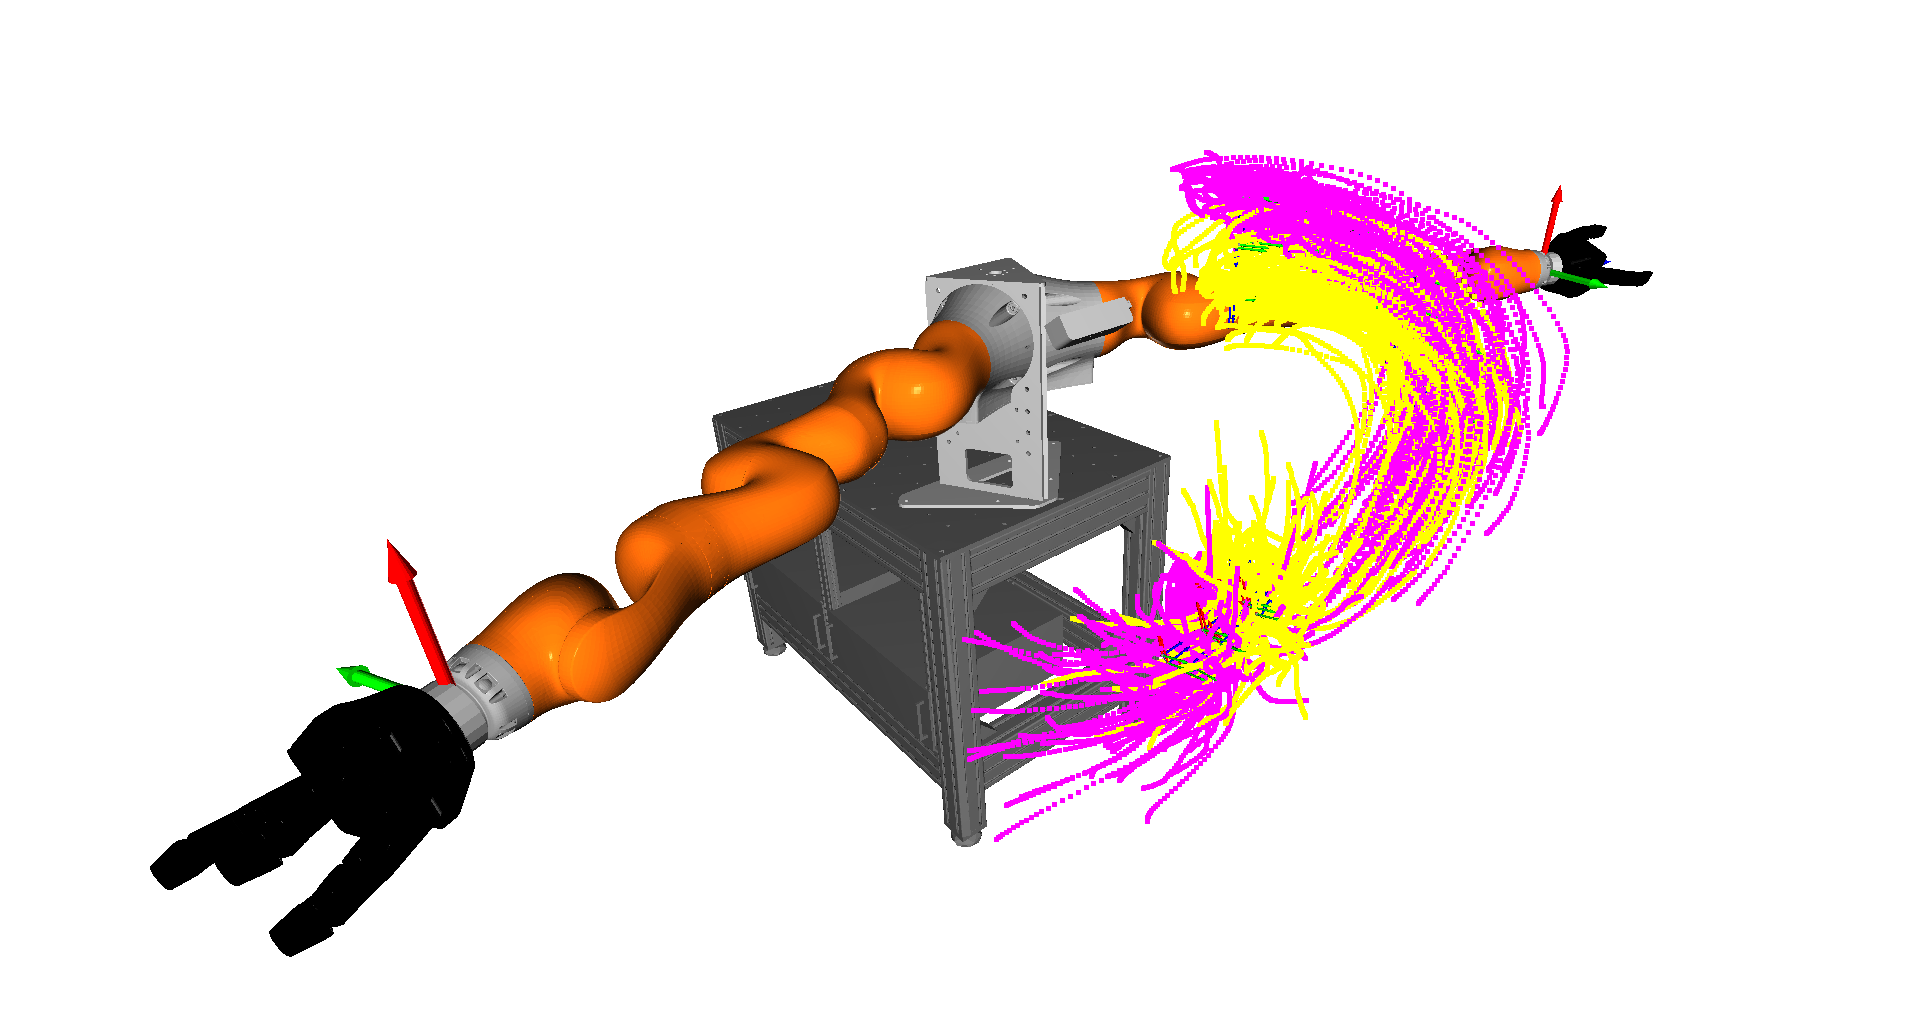
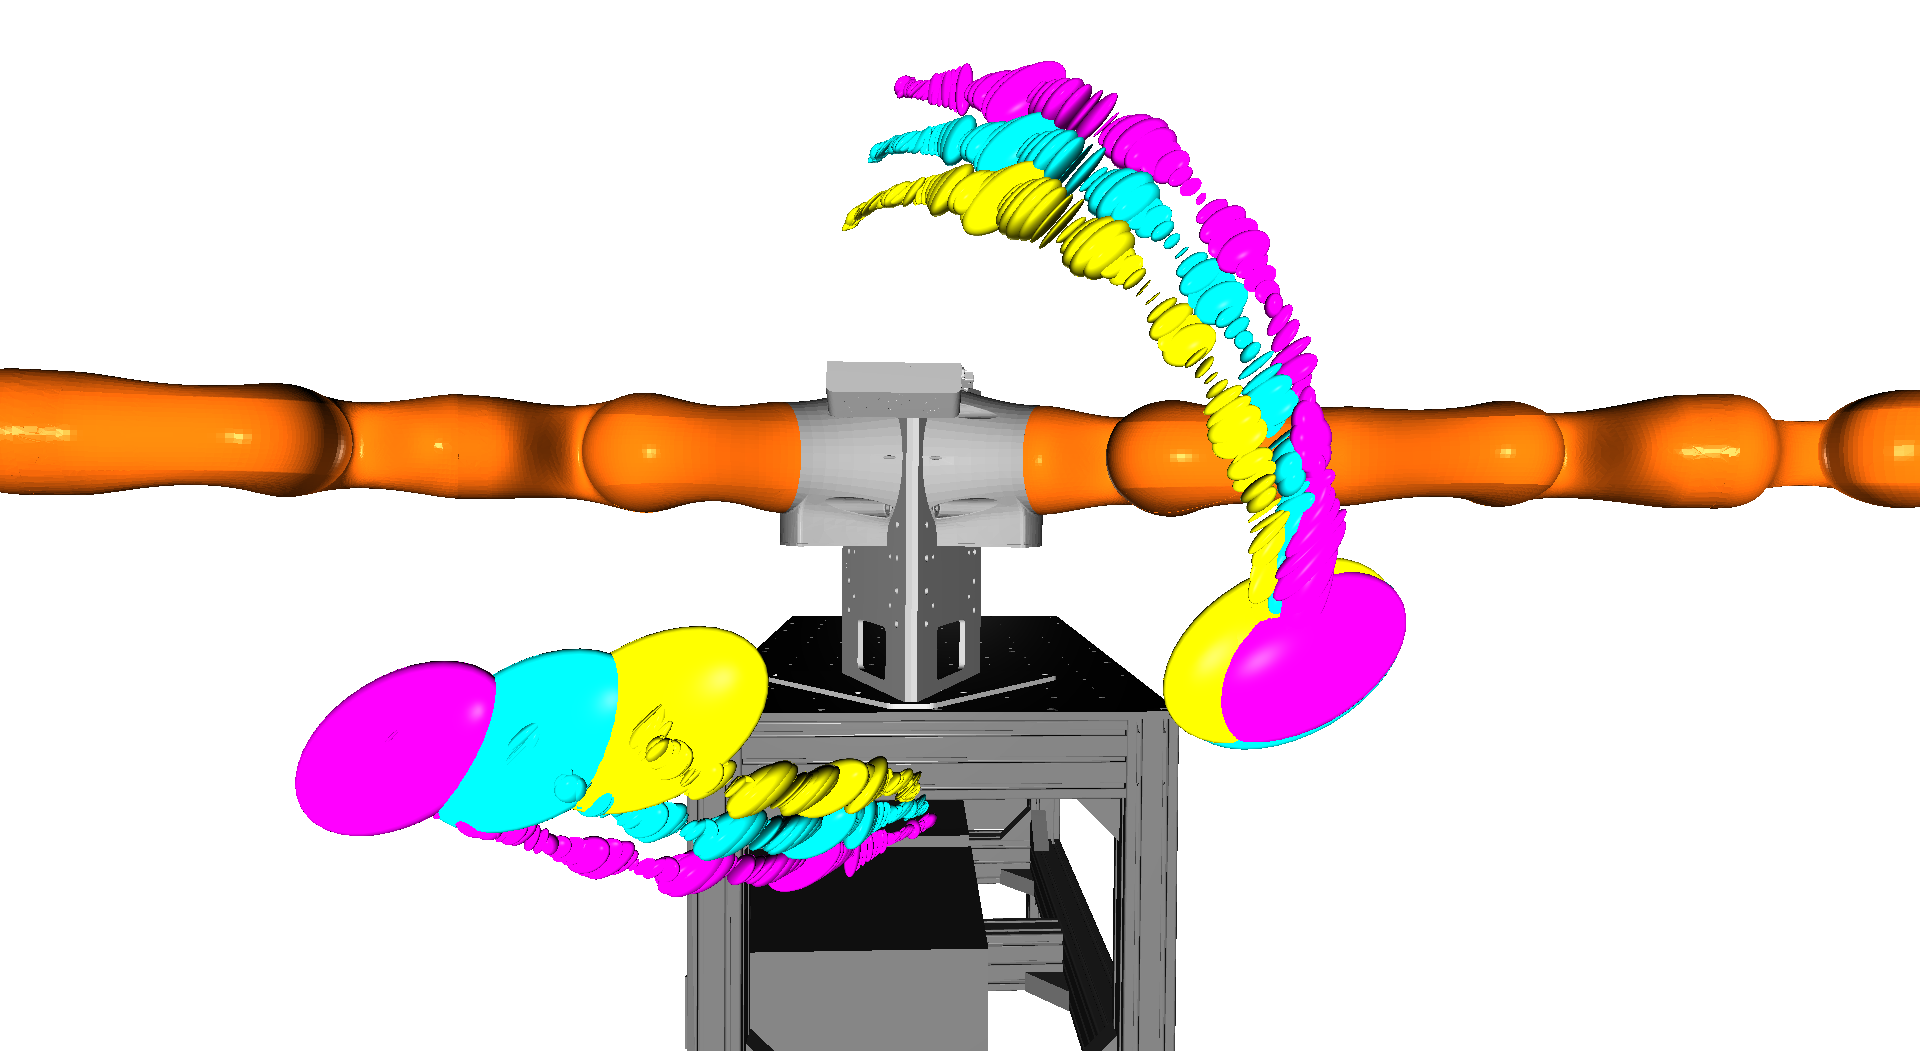
Plot error ellipsoids

diff --git a/scripts/vis_contextual_promp_distribution.py b/scripts/vis_contextual_promp_distribution.py
@@ -3,9 +3,9 @@ import pytransform3d.visualizer as pv
 from pytransform3d.urdf import UrdfTransformManager
 from gmr import GMM
 
-from movement_primitives.visualization import plot_pointcloud, ToggleGeometry
 from movement_primitives.data import load_kuka_dataset, transpose_dataset, smooth_dual_arm_trajectories_pq
 from movement_primitives.promp import ProMP
+from movement_primitives.visualization import to_ellipsoid
 
 
 def generate_training_data(
@@ -68,40 +68,21 @@ for panel_width, color, idx in zip([0.3, 0.4, 0.5], ([1.0, 1.0, 0.0], [0.0, 1.0,
     promp.from_weight_distribution(
         conditional_weight_distribution.mean,
         conditional_weight_distribution.covariance)
-    samples = promp.sample_trajectories(T_query, n_validation_samples, random_state)
 
-    # mean and standard deviation in state space
+    # mean and covariance in state space
     mean = promp.mean_trajectory(T_query)
-    std = np.sqrt(promp.var_trajectory(T_query))
+    cov = promp.cov_trajectory(T_query).reshape(
+        mean.shape[0], mean.shape[1], mean.shape[1], mean.shape[0])
 
-    c = [0, 0, 0]
-    c[idx] = 1
-    fig.plot_trajectory(mean[:, :7], s=0.05, c=tuple(c))
-    fig.plot_trajectory(mean[:, 7:], s=0.05, c=tuple(c))
-    #fig.plot_trajectory(mean[:, :7] + std[:, :7], s=0.02, c=tuple(c))
-    #fig.plot_trajectory(mean[:, 7:] + std[:, :7], s=0.02, c=tuple(c))
-    #fig.plot_trajectory(mean[:, :7] - std[:, :7], s=0.02, c=tuple(c))
-    #fig.plot_trajectory(mean[:, 7:] - std[:, :7], s=0.02, c=tuple(c))
-
-    pcl_points = []
-    distances = []
-    stds = []
-    for P in samples:
-        # uncomment to check orientations
-        #left = fig.plot_trajectory(P=P[:, :7], s=0.02)
-        #right = fig.plot_trajectory(P=P[:, 7:], s=0.02)
-        pcl_points.extend(P[:, :3])
-        pcl_points.extend(P[:, 7:10])
-
-        ee_distances = np.linalg.norm(P[:, :3] - P[:, 7:10], axis=1)
-        distances.append(np.mean(ee_distances))
-        stds.append(np.std(ee_distances))
-    print("Mean average distance of end-effectors = %.2f, mean std. dev. = %.3f"
-          % (np.mean(distances), np.mean(stds)))
-
-    pcl = plot_pointcloud(fig, pcl_points, color)
-    key = ord(str((idx + 1) % 10))
-    fig.visualizer.register_key_action_callback(key, ToggleGeometry(fig, pcl))
+    for t in range(0, len(mean), 1):
+        p_left = mean[t, :3]
+        p_right = mean[t, 7:10]
+        cov_left = cov[t, 7:10, 7:10, t]
+        cov_right = cov[t, 7:10, 7:10, t]
+        ellipsoid2origin, radii = to_ellipsoid(p_left, cov_left)
+        fig.plot_ellipsoid(A2B=ellipsoid2origin, radii=0.5 * radii, c=color)
+        ellipsoid2origin, radii = to_ellipsoid(p_right, cov_right)
+        fig.plot_ellipsoid(A2B=ellipsoid2origin, radii=0.5 * radii, c=color)
 
 if plot_training_data:
     for P in Ps:

diff --git a/movement_primitives/visualization.py b/movement_primitives/visualization.py
@@ -1,5 +1,7 @@
 import numpy as np
 import open3d as o3d
+import scipy as sp
+import pytransform3d.transformations as pt
 
 
 def plot_pointcloud(fig, pcl_points, color, uniform_down_sample=1):
@@ -27,3 +29,31 @@ class ToggleGeometry:
         elif not self.show and not modifier:
             vis.add_geometry(self.geometry, False)
         return True
+
+
+def to_ellipsoid(mean, cov):
+    """Compute error ellipsoid.
+
+    An error ellipsoid shows equiprobable points.
+
+    Parameters
+    ----------
+    mean : array-like, shape (3,)
+        Mean of distribution
+
+    cov : array-like, shape (3, 3)
+        Covariance of distribution
+
+    Returns
+    -------
+    ellipsoid2origin : array, shape (4, 4)
+        Ellipsoid frame in world frame
+
+    radii : array, shape (3,)
+        Radii of ellipsoid
+    """
+    radii, R = sp.linalg.eigh(cov)
+    if np.linalg.det(R) < 0:  # undo reflection (exploit symmetry)
+        R *= -1
+    ellipsoid2origin = pt.transform_from(R=R, p=mean)
+    return ellipsoid2origin, np.sqrt(np.abs(radii))
